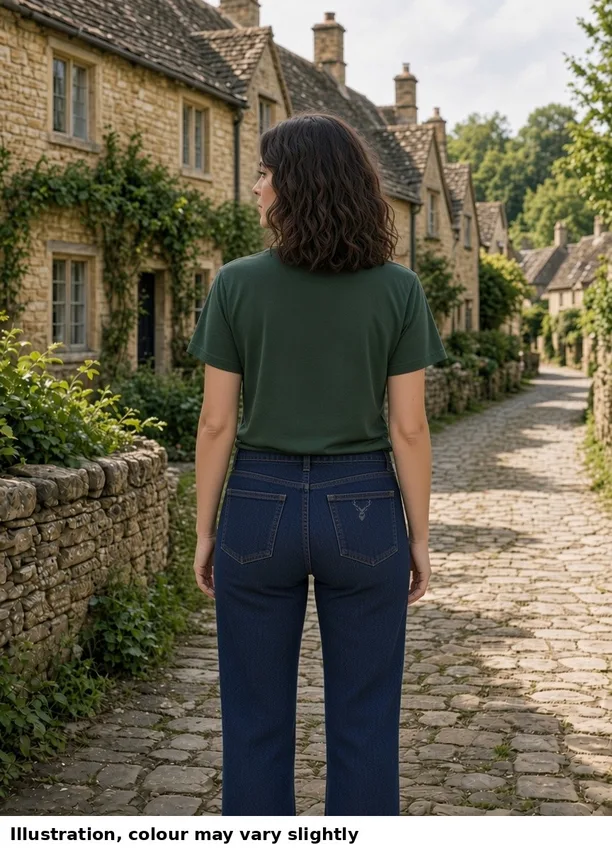
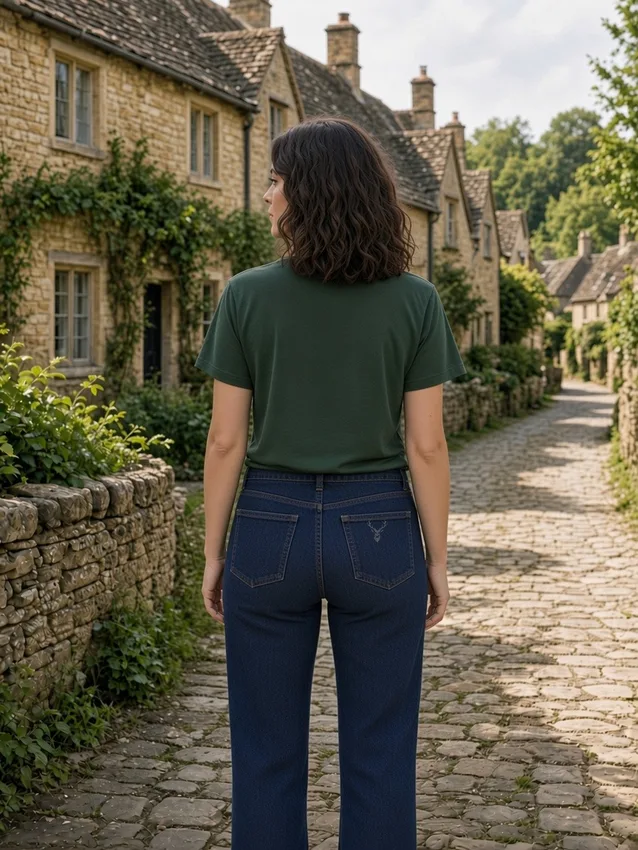
Denim: no-caption photos, names with colour, caption once, right back pocket notes, scroll margin

diff --git a/src/components/shop/smartCasual.ts b/src/components/shop/smartCasual.ts
@@ -218,37 +218,37 @@ const defs: Def[] = [
   // Back-view illustrations; stag on the right back pocket. Sizes from the pack; `oos` = OUT on 31 Oct (recheck before launch).
   // Not orderable until their supplier designs are saved: add them to DESIGNS in src/lib/madeDesigns.ts (pids 9100013-9100018).
   {
-    pid: 9100013, key: "denim", name: "Devonshire Leo Straight Jeans", code: "", sub: "Denim",
+    pid: 9100013, key: "denim", name: "Devonshire Leo Straight Jeans, Black", code: "", sub: "Denim",
     sizes: ["W28 R (leg 31in)", "W28 L (leg 33in)", "W30 R (leg 31in)", "W30 L (leg 33in)", "W32 R (leg 31in)", "W32 L (leg 33in)", "W34 R (leg 31in)", "W34 L (leg 33in)", "W36 R (leg 31in)", "W36 L (leg 33in)", "W38 R (leg 31in)", "W38 L (leg 33in)", "W40 R (leg 31in)", "W40 L (leg 33in)"],
     details: ["A straight-leg jean in deep black stretch denim, finished with the Devonshire stag stitched tone-on-tone on the right back pocket. Stretch denim with 5-pocket styling, self-fabric belt loops, a shank button and zip fly, metal rivets at the pocket corners and twin-needle stitching. Fabric: 73% cotton, 25% polyester, 2% elastane; 11oz. Fit: straight fit. Made to order."],
     designs: [d("Black", "#1A1A1C", DG, "denim/leo-straight-black", { img: "/shop/denim/leo-straight-black-back.webp", alt: "Back view of a model wearing Devonshire Leo Straight Jeans in Black, with a small dark grey stag embroidered on the right back pocket.", oos: [] })],
   },
   {
-    pid: 9100014, key: "denim", name: "Devonshire Leo Straight Jeans", code: "", sub: "Denim",
+    pid: 9100014, key: "denim", name: "Devonshire Leo Straight Jeans, Dark Blue Wash", code: "", sub: "Denim",
     sizes: ["W28 R (leg 31in)", "W28 L (leg 33in)", "W30 R (leg 31in)", "W30 L (leg 33in)", "W32 R (leg 31in)", "W32 L (leg 33in)", "W34 R (leg 31in)", "W34 L (leg 33in)", "W36 R (leg 31in)", "W36 L (leg 33in)", "W38 R (leg 31in)", "W38 L (leg 33in)", "W40 R (leg 31in)", "W40 L (leg 33in)"],
     details: ["A straight-leg jean in dark blue wash stretch denim, finished with the Devonshire stag stitched tone-on-tone on the right back pocket. Stretch denim with 5-pocket styling, self-fabric belt loops, a shank button and zip fly, metal rivets at the pocket corners and twin-needle stitching. Fabric: 99% cotton, 1% elastane; 10.5oz. Fit: straight fit; light blasting and whiskering. Made to order."],
     designs: [d("Dark Blue Wash", "#1F2A44", DG, "denim/leo-straight-dark-blue-wash", { img: "/shop/denim/leo-straight-dark-blue-wash-back.webp", alt: "Back view of a model wearing Devonshire Leo Straight Jeans in Dark Blue Wash, with a small dark grey stag embroidered on the right back pocket.", oos: ["W36 L (leg 33in)"] })],
   },
   {
-    pid: 9100015, key: "denim", name: "Devonshire Max Slim Jeans", code: "", sub: "Denim",
+    pid: 9100015, key: "denim", name: "Devonshire Max Slim Jeans, Black", code: "", sub: "Denim",
     sizes: ["W28 R (leg 31in)", "W28 L (leg 33in)", "W30 R (leg 31in)", "W30 L (leg 33in)", "W32 R (leg 31in)", "W32 L (leg 33in)", "W34 R (leg 31in)", "W34 L (leg 33in)", "W36 R (leg 31in)", "W36 L (leg 33in)", "W38 R (leg 31in)", "W38 L (leg 33in)", "W40 R (leg 31in)", "W40 L (leg 33in)"],
     details: ["A slim-fit jean in deep black stretch denim, finished with the Devonshire stag stitched tone-on-tone on the right back pocket. Stretch denim with 5-pocket styling, self-fabric belt loops, a shank button and zip fly, metal rivets at the pocket corners and twin-needle stitching. Fabric: 73% cotton, 25% polyester, 2% elastane; 10.5oz. Fit: slim fit. Made to order."],
     designs: [d("Black", "#1A1A1C", DG, "denim/max-slim-black", { img: "/shop/denim/max-slim-black-back.webp", alt: "Back view of a model wearing Devonshire Max Slim Jeans in Black, with a small dark grey stag embroidered on the right back pocket.", oos: [] })],
   },
   {
-    pid: 9100016, key: "denim", name: "Devonshire Max Slim Jeans", code: "", sub: "Denim",
+    pid: 9100016, key: "denim", name: "Devonshire Max Slim Jeans, Dark Blue Wash", code: "", sub: "Denim",
     sizes: ["W28 R (leg 31in)", "W28 L (leg 33in)", "W30 R (leg 31in)", "W30 L (leg 33in)", "W32 R (leg 31in)", "W32 L (leg 33in)", "W34 R (leg 31in)", "W34 L (leg 33in)", "W36 R (leg 31in)", "W36 L (leg 33in)", "W38 R (leg 31in)", "W38 L (leg 33in)", "W40 R (leg 31in)", "W40 L (leg 33in)"],
     details: ["A slim-fit jean in dark blue wash stretch denim, finished with the Devonshire stag stitched tone-on-tone on the right back pocket. Stretch denim with 5-pocket styling, self-fabric belt loops, a shank button and zip fly, metal rivets at the pocket corners and twin-needle stitching. Fabric: 99% cotton, 1% elastane; 10.5oz. Fit: slim fit; light blasting and whiskering. Made to order."],
     designs: [d("Dark Blue Wash", "#1F2A44", DG, "denim/max-slim-dark-blue-wash", { img: "/shop/denim/max-slim-dark-blue-wash-back.webp", alt: "Back view of a model wearing Devonshire Max Slim Jeans in Dark Blue Wash, with a small dark grey stag embroidered on the right back pocket.", oos: ["W36 R (leg 31in)"] })],
   },
   {
-    pid: 9100017, key: "denim", name: "Devonshire Women's Katy Straight Jeans", code: "", sub: "Denim",
+    pid: 9100017, key: "denim", name: "Devonshire Women's Katy Straight Jeans, Dark Blue Wash", code: "", sub: "Denim",
     sizes: ["UK 6 R (leg 30in)", "UK 6 L (leg 32in)", "UK 8 R (leg 30in)", "UK 8 L (leg 32in)", "UK 10 R (leg 30in)", "UK 10 L (leg 32in)", "UK 12 R (leg 30in)", "UK 12 L (leg 32in)", "UK 14 R (leg 30in)", "UK 14 L (leg 32in)", "UK 16 R (leg 30in)", "UK 16 L (leg 32in)", "UK 18 R (leg 30in)", "UK 18 L (leg 32in)"],
     details: ["A straight-leg jean in dark blue wash stretch denim, finished with the Devonshire stag stitched tone-on-tone on the right back pocket. Stretch denim with 5-pocket styling, self-fabric belt loops, a shank button and zip fly, metal rivets at the pocket corners and twin-needle stitching. Fabric: 99% cotton, 1% elastane; 9oz. Fit: straight fit; light blasting and whiskering. Made to order."],
     designs: [d("Dark Blue Wash", "#1F2A44", DG, "denim/womens-katy-straight-dark-blue-wash", { img: "/shop/denim/womens-katy-straight-dark-blue-wash-back.webp", alt: "Back view of a model wearing Devonshire Women's Katy Straight Jeans in Dark Blue Wash, with a small dark grey stag embroidered on the right back pocket.", oos: [] })],
   },
   {
-    pid: 9100018, key: "denim", name: "Devonshire Women's Lara Skinny Jeans", code: "", sub: "Denim",
+    pid: 9100018, key: "denim", name: "Devonshire Women's Lara Skinny Jeans, Black", code: "", sub: "Denim",
     sizes: ["UK 6 S (leg 28in)", "UK 6 R (leg 30in)", "UK 6 L (leg 32in)", "UK 8 S (leg 28in)", "UK 8 R (leg 30in)", "UK 8 L (leg 32in)", "UK 10 S (leg 28in)", "UK 10 R (leg 30in)", "UK 10 L (leg 32in)", "UK 12 S (leg 28in)", "UK 12 R (leg 30in)", "UK 12 L (leg 32in)", "UK 14 S (leg 28in)", "UK 14 R (leg 30in)", "UK 14 L (leg 32in)", "UK 16 S (leg 28in)", "UK 16 R (leg 30in)", "UK 16 L (leg 32in)", "UK 18 S (leg 28in)", "UK 18 R (leg 30in)", "UK 18 L (leg 32in)"],
     details: ["A mid-rise skinny jean in deep black stretch denim, finished with the Devonshire stag stitched tone-on-tone on the right back pocket. Stretch denim with 5-pocket styling, self-fabric belt loops, a shank button and zip fly, metal rivets at the pocket corners and twin-needle stitching. Fabric: 77% cotton, 21% polyester, 2% elastane; 9oz. Fit: skinny fit, mid rise. Made to order."],
     designs: [d("Black", "#1A1A1C", DG, "denim/womens-lara-skinny-black", { img: "/shop/denim/womens-lara-skinny-black-back.webp", alt: "Back view of a model wearing Devonshire Women's Lara Skinny Jeans in Black, with a small dark grey stag embroidered on the right back pocket.", oos: [] })],
@@ -282,7 +282,7 @@ export const smartCasual: Merch[] = defs.map((p) => {
   const oldLogo = false;
   // Everything else shows only the Devonshire stag model photos (old logo photos removed).
   const photos = (c: Design): MerchPhoto[] => c.img
-    ? [{ src: c.img, alt: c.alt ?? alt(c, "back"), view: "back", note: MODEL_NOTE }]
+    ? [{ src: c.img, alt: c.alt ?? alt(c, "back"), view: "back" }] // caption shown once, under the Denim heading
     : oldLogo
     ? [...(c.model ? [ph(c, "model", "model")] : []), ...STANDARD_VIEWS.map((x) => ph(c, x.view, x.file))]
     : [

diff --git a/src/lib/madeDesigns.ts b/src/lib/madeDesigns.ts
@@ -28,8 +28,8 @@ const DESIGNS: Record<number, { garment: string; colours: Record<string, [design
 // 9100006 Short Sleeve Oxford (HB517) · 9100007 Mercerised Polo (AQ101) · 9100008 Long Sleeve Polo (AQ030)
 // 9100009 Zip-Through Cardigan (H718) · 9100010 Crew Neck Jumper (HB725) · 9100011 Softshell Jacket (140M)
 // 9100012 Chino Shorts (AQ051)
-// DENIM (31 Oct 2026), stag on the right back pocket, all "needs design number". Add one entry per pid, e.g.
-//   9100013: { garment: "SD001 Leo Straight jeans (stag right back pocket)", colours: { Black: [1234567, "dark grey"] } },
+// DENIM (31 Oct 2026), stag embroidered on the RIGHT back pocket (wearer's right), all "needs design number". Add one entry per pid, e.g.
+//   9100013: { garment: "SD001 Leo Straight jeans (stag on RIGHT back pocket)", colours: { Black: [1234567, "dark grey"] } },
 // 9100013 Leo Straight Black (SD001) · 9100014 Leo Straight Dark Blue Wash (SD001)
 // 9100015 Max Slim Black (SD004) · 9100016 Max Slim Dark Blue Wash (SD004)
 // 9100017 Women's Katy Straight Dark Blue Wash (SD011) · 9100018 Women's Lara Skinny Black (SD014)

diff --git a/src/components/shop/ShopBrowser.tsx b/src/components/shop/ShopBrowser.tsx
@@ -194,8 +194,8 @@ export default function ShopBrowser({ notYet = [], preview = false }: { notYet?:
                 {items.map((p) => <Card key={`${p.cat}-${p.name}`} p={p} />)}
               </ul>
               {kit.some((p) => p.sub === "Denim") && (
-                <div id="denim" data-denim className="mt-8 scroll-mt-[220px] lg:scroll-mt-[170px]">
-                  <h3 className="font-display mb-1 text-lg font-bold text-[#1C1917] sm:text-xl">Denim</h3>
+                <div id="denim" data-denim className="mt-8 scroll-mt-[170px] lg:scroll-mt-[130px]">
+                  <h3 id="h-denim" className="scroll-mt-[170px] lg:scroll-mt-[130px] font-display mb-1 text-lg font-bold text-[#1C1917] sm:text-xl">Denim</h3>
                   <p className="mb-3 text-[13px] italic text-[#1C1917]/75">{MODEL_NOTE}</p>
                   <ul className={grid}>
                     {kit.filter((p) => p.sub === "Denim").map((p) => <MerchCard key={p.pid} p={p} />)}
